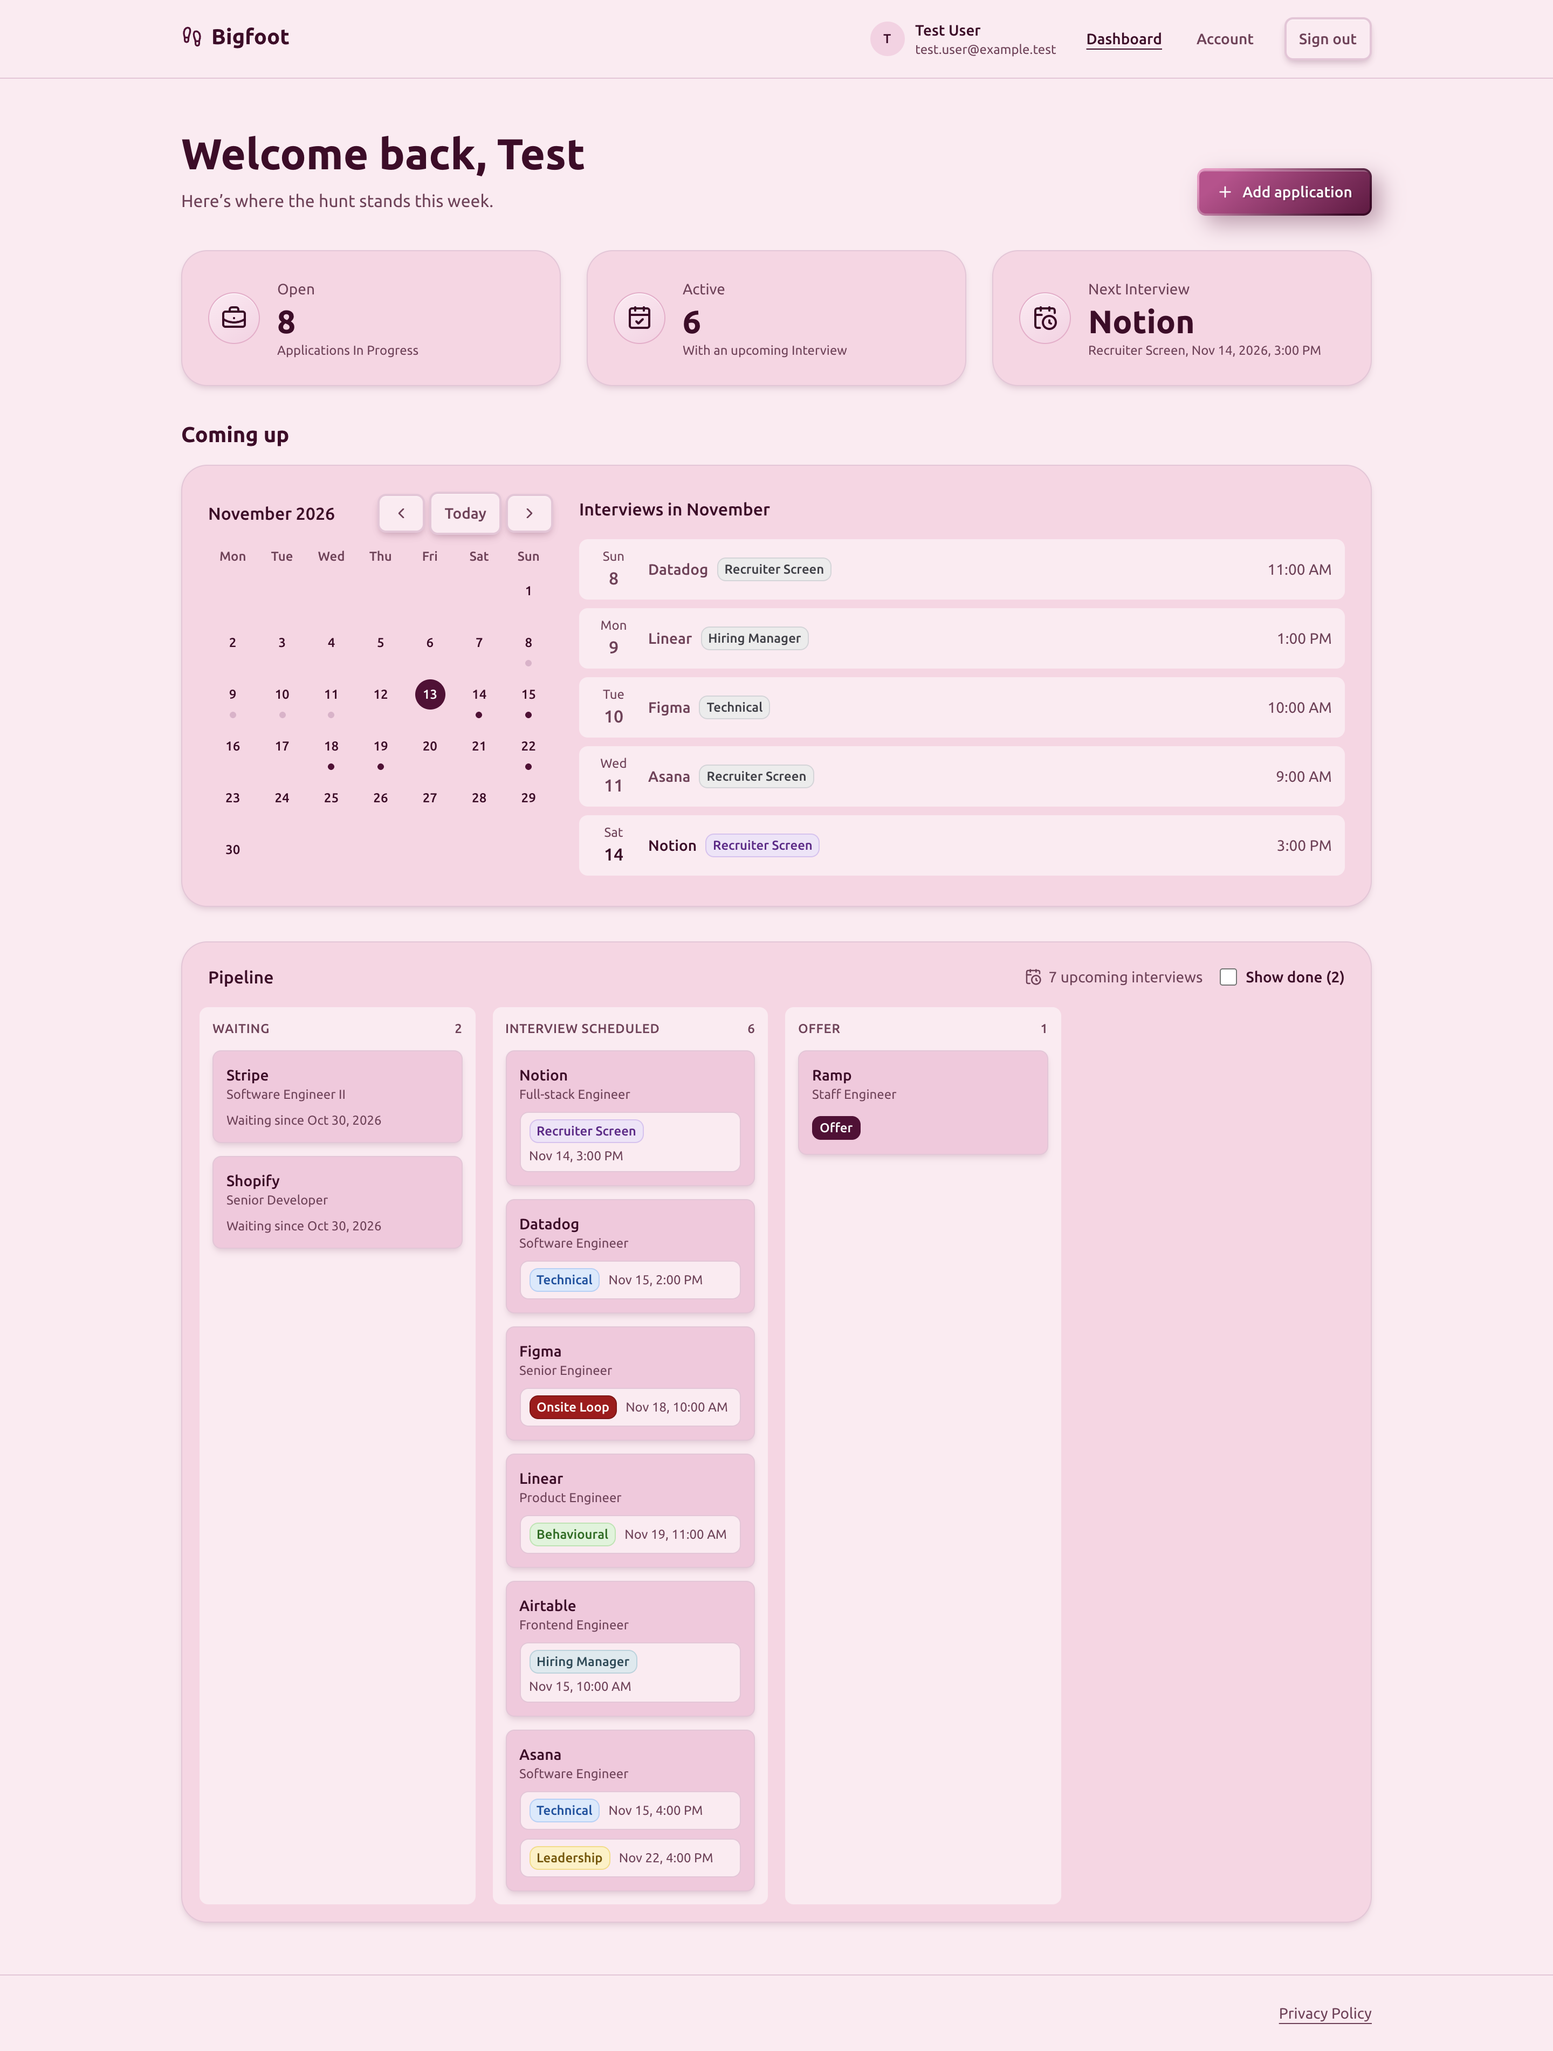
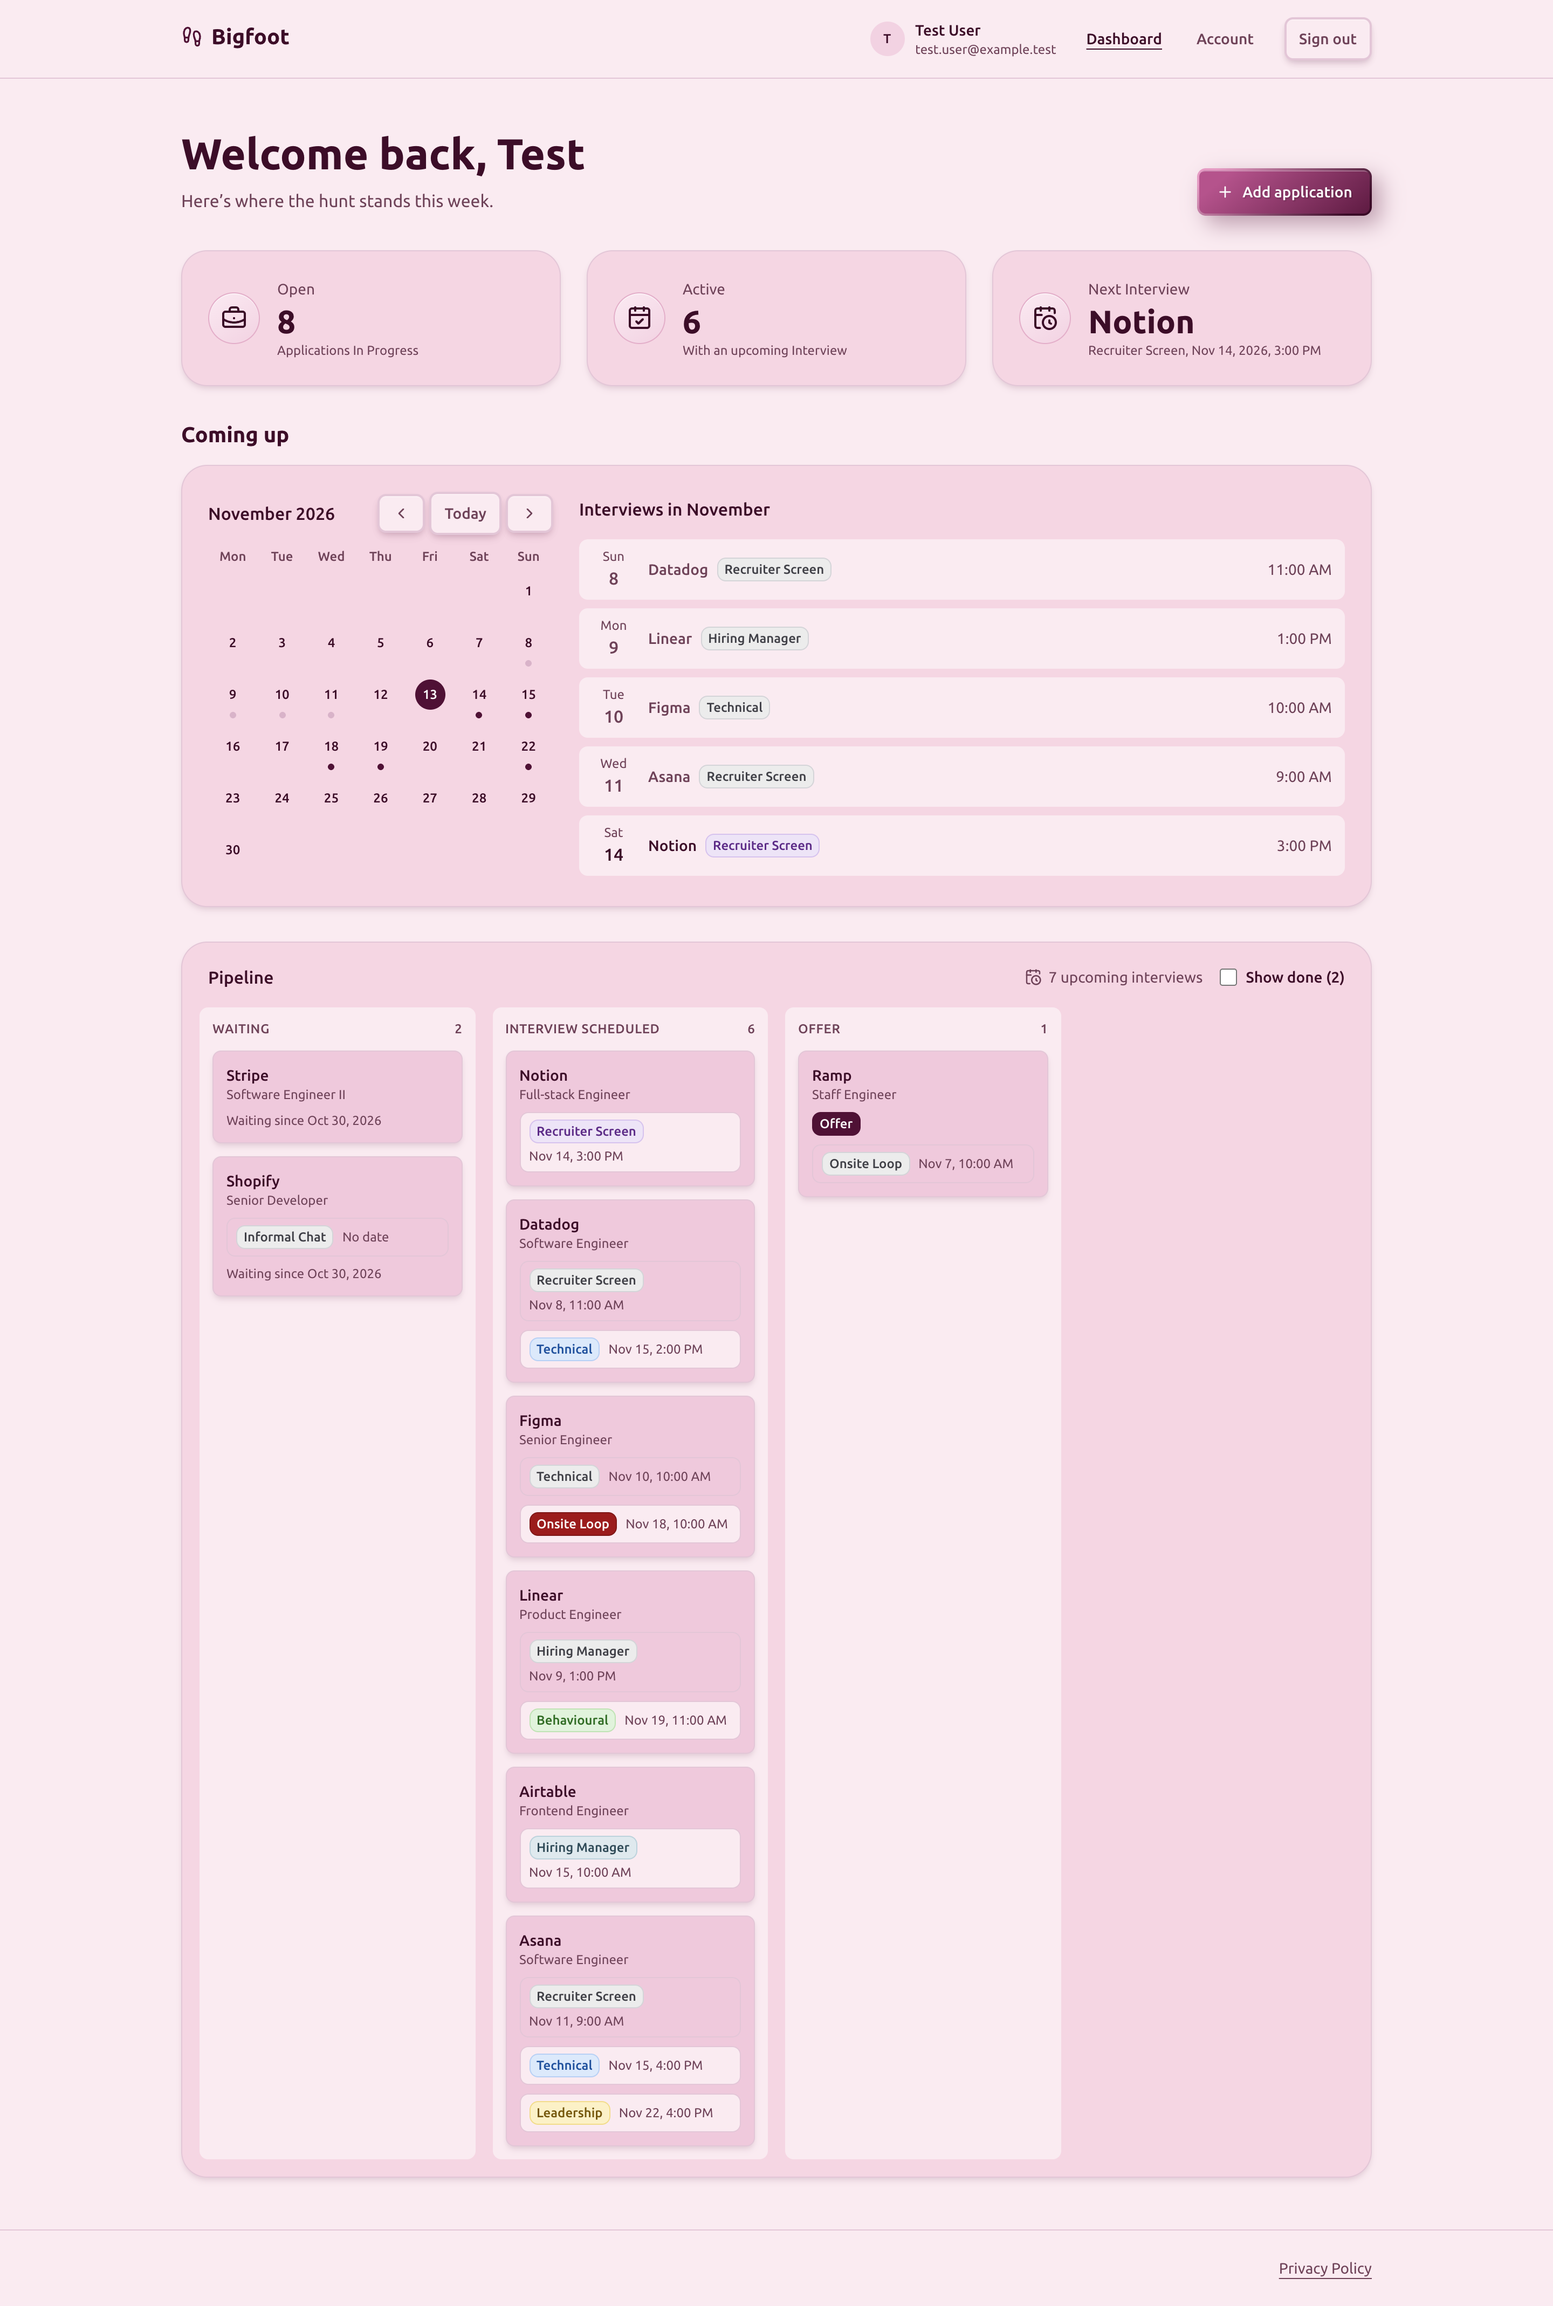
Show past Interviews on Pipeline cards, muted (BIG-49)
Each card lists all of its Application's Interviews in date order:
undated ones first, then past, then upcoming. Completed Interviews
(past or undated) have a grey label and no fill, and screen readers hear
"(past)". Done and Offer cards show their Outcome and then their
Interviews; Waiting cards still end with "Waiting since".

diff --git a/src/components/pipeline-board.tsx b/src/components/pipeline-board.tsx
@@ -5,9 +5,9 @@ import { ApplicationWhen, InterviewWhen } from "@/components/application-when";
 import {
   getBoardColumns,
   INTERVIEW_OPTIONS,
-  upcomingInterviews,
   OUTCOME_OPTIONS,
   type Application,
+  type Interview,
 } from "@/lib/applications";
 
 type Props = {
@@ -86,7 +86,6 @@ export function PipelineBoard({
 }
 
 function Card({ job, onOpen }: { job: Application; onOpen?: (app: Application) => void }) {
-  const upcoming = upcomingInterviews(job);
   return (
     <li
       className={`relative rounded-control border border-line bg-card-strong p-3 shadow-xs ${
@@ -113,27 +112,36 @@ function Card({ job, onOpen }: { job: Application; onOpen?: (app: Application) =
         {job.is_sample && <SampleBadge />}
       </div>
       <p className="m-0 mb-2 text-xs leading-4 text-body">{job.title}</p>
-      {job.outcome ? (
-        <Badge tone={OUTCOME_OPTIONS[job.outcome].tone}>{OUTCOME_OPTIONS[job.outcome].label}</Badge>
-      ) : upcoming.length > 0 ? (
-        // Every upcoming Interview, soonest first, each in its own box so its kind and date stay
-        // together: side by side when they fit, the date below when the card is narrow.
-        <ul aria-label="Upcoming Interviews" className="m-0 flex list-none flex-col gap-2 p-0">
-          {upcoming.map((interview) => (
-            <li
-              key={interview.id}
-              className="flex flex-wrap items-center gap-x-2 gap-y-1 rounded-control border border-line bg-surface px-2 py-1.5 text-xs text-body"
-            >
-              <Badge tone={INTERVIEW_OPTIONS[interview.kind].tone}>{INTERVIEW_OPTIONS[interview.kind].label}</Badge>
-              <InterviewWhen at={interview.at} />
-            </li>
-          ))}
-        </ul>
-      ) : (
-        <div className="text-xs text-body">
-          <ApplicationWhen app={job} />
-        </div>
-      )}
+      <div className="flex flex-col items-start gap-2 text-xs text-body">
+        {job.outcome && (
+          <Badge tone={OUTCOME_OPTIONS[job.outcome].tone}>{OUTCOME_OPTIONS[job.outcome].label}</Badge>
+        )}
+        {job.interviews.length > 0 && (
+          // Every Interview in date order (undated, then past, then upcoming), each in its own box
+          // so its kind and date stay together at any card width. Completed ones are muted.
+          <ul aria-label="Interviews" className="m-0 flex w-full list-none flex-col gap-2 p-0">
+            {job.interviews.map((interview) => (
+              <InterviewItem key={interview.id} interview={interview} />
+            ))}
+          </ul>
+        )}
+        {job.is_waiting && <ApplicationWhen app={job} />}
+      </div>
+    </li>
+  );
+}
+
+function InterviewItem({ interview }: { interview: Interview }) {
+  const kind = INTERVIEW_OPTIONS[interview.kind];
+  return (
+    <li
+      className={`flex flex-wrap items-center gap-x-2 gap-y-1 rounded-control border border-line px-2 py-1.5 ${
+        interview.completed ? "" : "bg-surface"
+      }`}
+    >
+      <Badge tone={interview.completed ? "gray" : kind.tone}>{kind.label}</Badge>
+      <InterviewWhen at={interview.at} />
+      {interview.completed && <span className="sr-only">(past)</span>}
     </li>
   );
 }

diff --git a/src/components/application-when.tsx b/src/components/application-when.tsx
@@ -21,7 +21,7 @@ export function ApplicationWhen({ app }: { app: Application }) {
   return <span className="text-body-subtle">—</span>;
 }
 
-// Upcoming Interviews are never far off, so a card leaves out the year to keep each row short.
+// A card leaves out the year to keep each Interview short; its Interviews are rarely a year apart.
 const shortWhenFormat = new Intl.DateTimeFormat(undefined, {
   month: "short",
   day: "numeric",
@@ -29,11 +29,11 @@ const shortWhenFormat = new Intl.DateTimeFormat(undefined, {
   minute: "2-digit",
 });
 
-/** One upcoming Interview's date and time, in the viewer's time zone, without the year. */
+/** One Interview's date and time, in the viewer's time zone, without the year. */
 export function InterviewWhen({ at }: { at: string | null }) {
   const isClient = useIsClient();
   if (!isClient) return <span className="block h-5" />;
-  if (!at) return <span className="text-body-subtle">No date</span>;
+  if (!at) return <span>No date</span>;
   return (
     <time dateTime={at} className="whitespace-nowrap">
       {shortWhenFormat.format(new Date(at))}

diff --git a/GLOSSARY.md b/GLOSSARY.md
@@ -31,7 +31,7 @@ How a Done Application ended: Offer, Rejected, Position Filled, Withdrawn, No Op
 _Avoid_: closed stage, result, archived
 
 **Pipeline**:
-All of a job seeker's Applications. The board shows the In Progress ones, grouped by what they are waiting on, plus Offers. Its columns are Waiting, Interview scheduled and Offer, and a Done column for the other Done Applications when "Show done" is on; empty ones are left out. Opening a card edits its Application.
+All of a job seeker's Applications. The board shows the In Progress ones, grouped by what they are waiting on, plus Offers. Its columns are Waiting, Interview scheduled and Offer, and a Done column for the other Done Applications when "Show done" is on; empty ones are left out. Each card lists all of its Application's Interviews, completed ones muted. Opening a card edits its Application.
 _Avoid_: board, funnel, tracker
 
 **Interview**:
